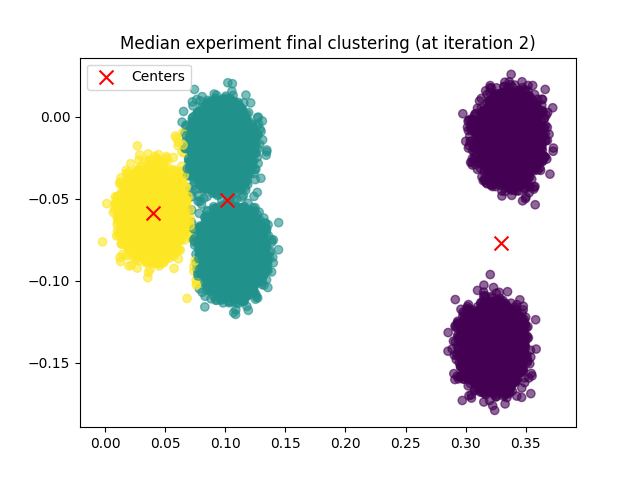
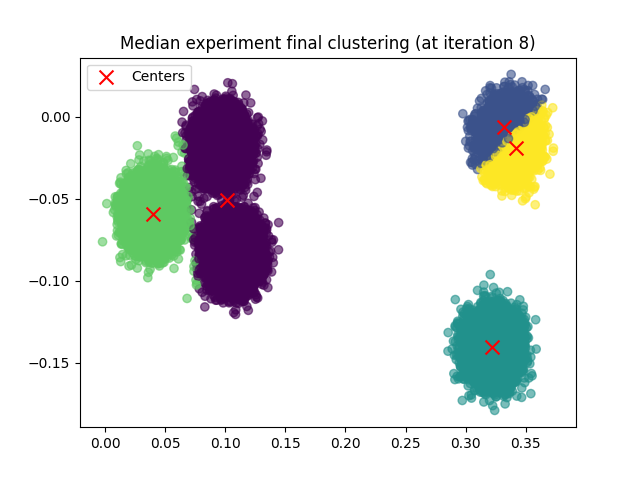
Lloyd latest results

diff --git a/algorithms/Lloyd.py b/algorithms/Lloyd.py
@@ -18,7 +18,7 @@ for i in range(T):
     initial_centers = df[np.random.choice(len(df), k, replace=False)]
     
     # Initialize and fit K-Means with these initial centers
-    kmeans = KMeans(n_clusters=3, init=initial_centers, n_init=1, max_iter=100, random_state=None)
+    kmeans = KMeans(n_clusters=k, init=initial_centers, n_init=1, max_iter=100, random_state=None)
     kmeans.fit(df)
     
     # Calculate Calinski-Harabasz score
